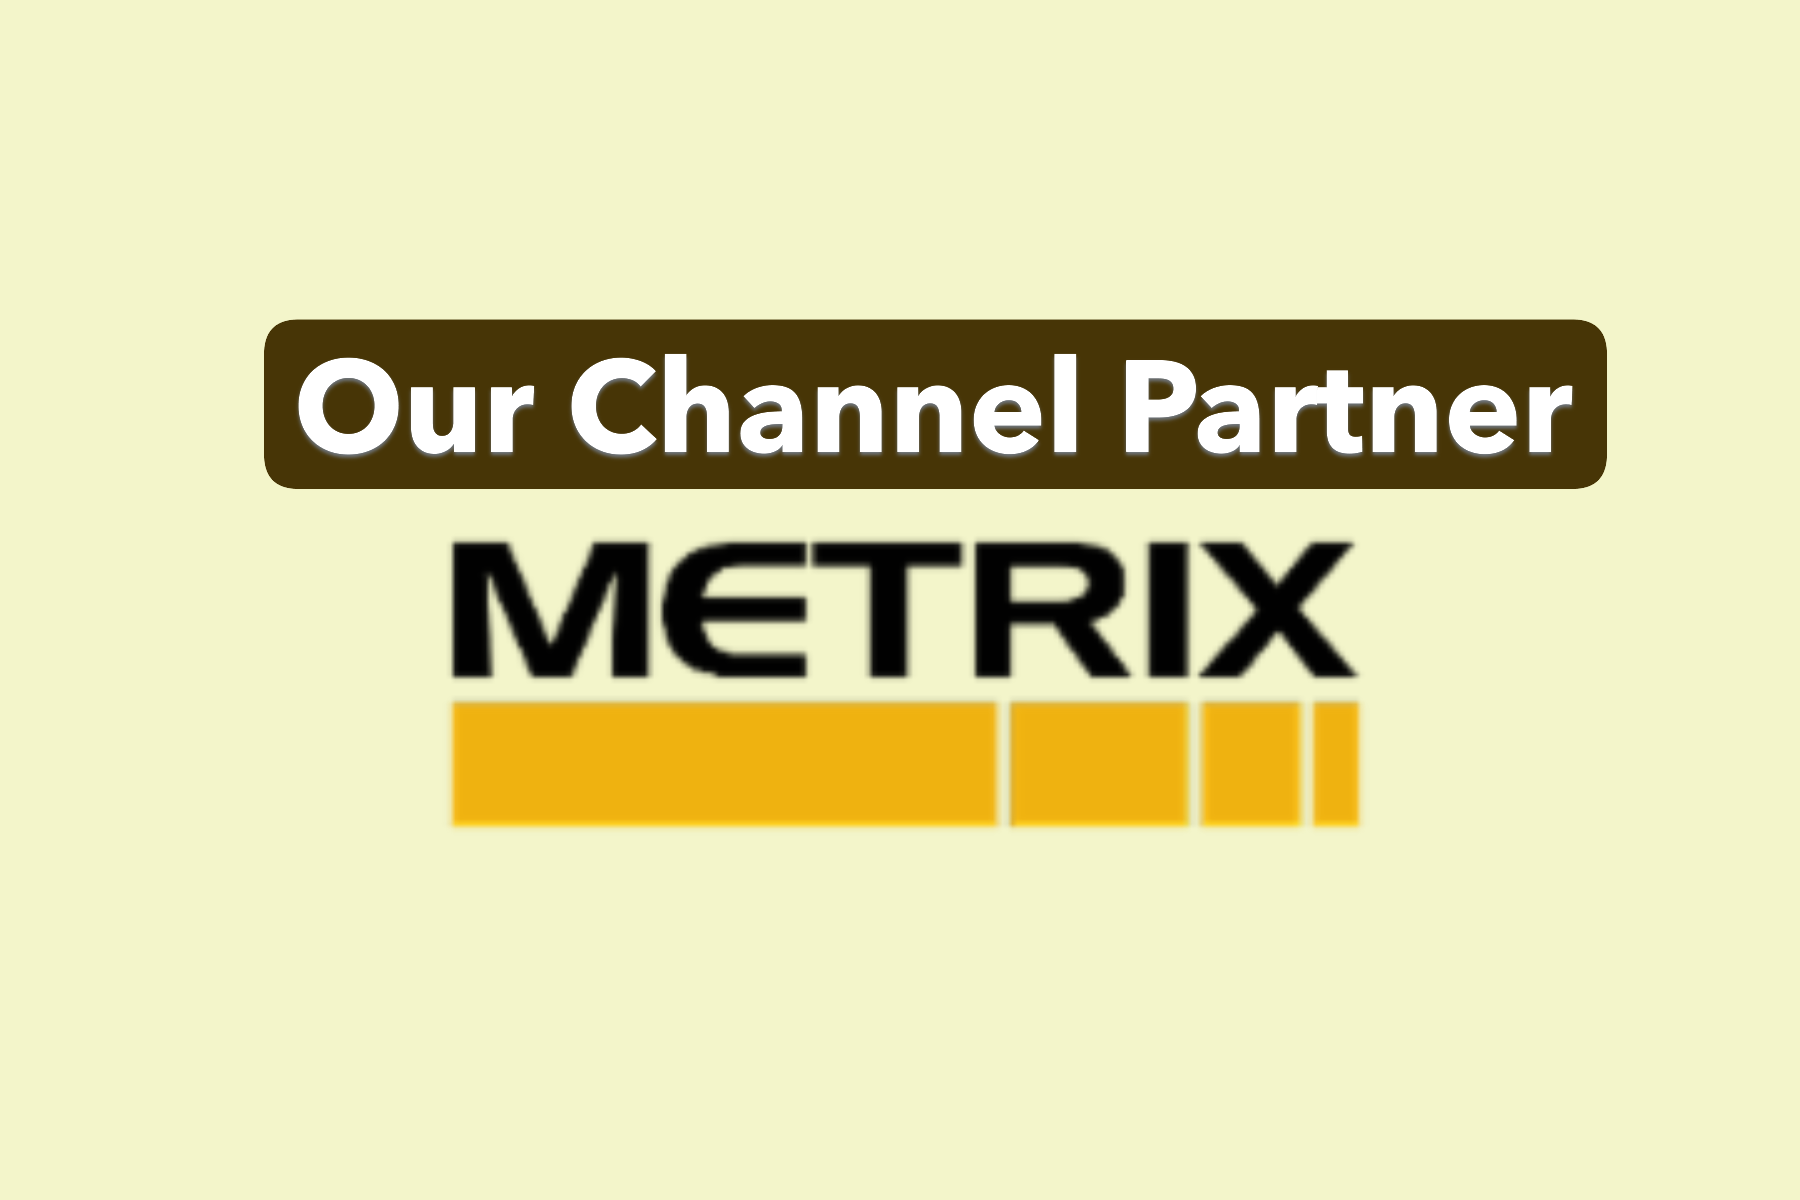
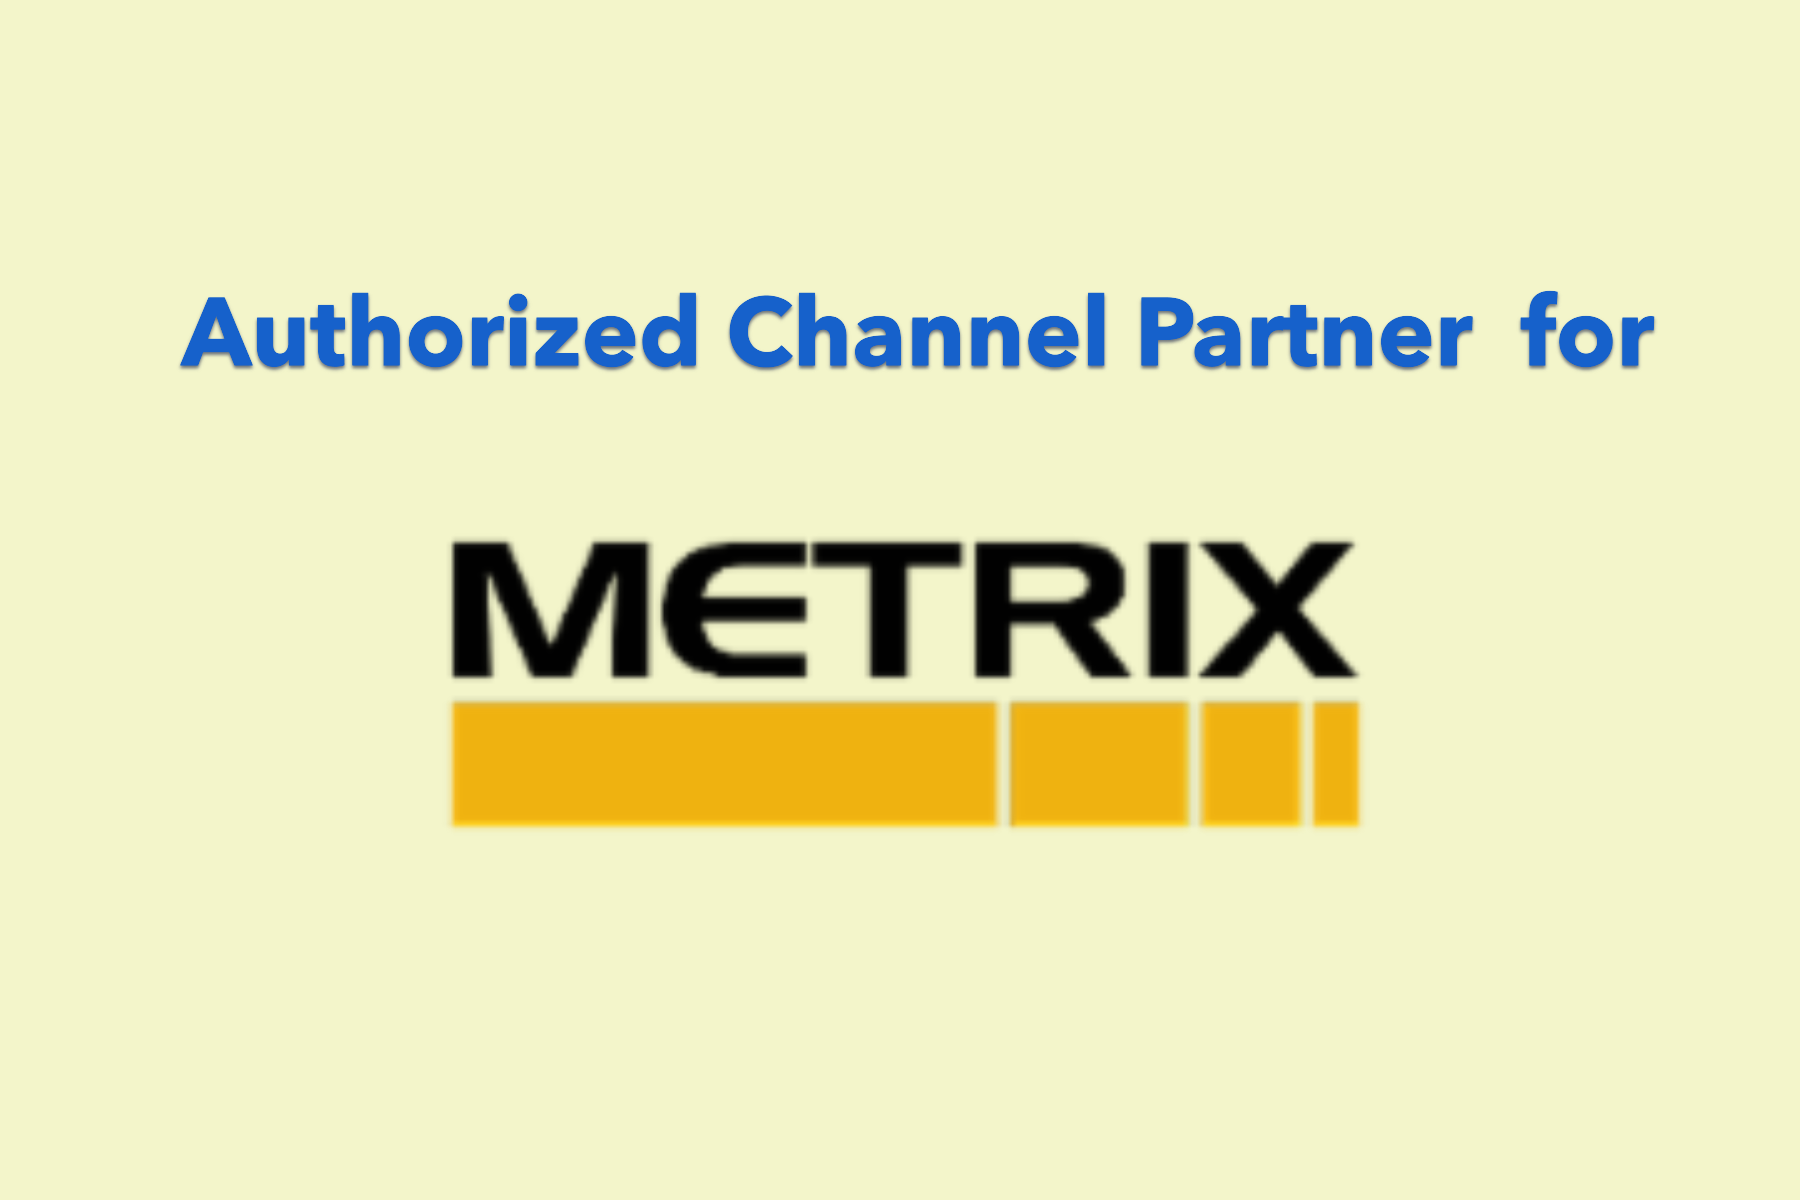
UI changes and Corrections

Changed region(s): [[0.0933, 0.2467, 0.9333, 0.4317]]

diff --git a/frontend/src/pages/home/components/hero.tsx b/frontend/src/pages/home/components/hero.tsx
@@ -1,4 +1,5 @@
 // components/HeroSection.tsx
+import { Link } from "react-router";
 import { Button } from "../../../components/ui/button";
 
 export default function HeroSection() {
@@ -20,22 +21,26 @@ export default function HeroSection() {
       </svg>
 
       <section className="text-center px-4 md:px-6 max-w-5xl mx-auto pt-12">
-        <h1 className="font-bold leading-[40px] md:leading-[70px] text-4xl md:text-6xl lg:text-6xl text-iso-gray-dark tracking-[-1.4px]">
-          Elevate Your Monitoring with <br />{" "}
+        <h1 className="font-bold leading-[40px] md:leading-[70px] text-3xl md:text-6xl lg:text-6xl text-iso-gray-dark tracking-[-1.4px]">
+          Elevate Your Machine Monitoring with <br />{" "}
           <span className="bg-gradient-to-r from-[#7A76FC] to-[#61A4EB] text-transparent bg-clip-text">
             G Vibrations Busters
           </span>
         </h1>
         <p className="text-iso-gray text-lg md:text-xl mt-4 w-4/5 mx-auto">
-          Partnering with Metrix Vibration, leaders in industrial vibration and
-          condition monitoring systems, we offer unmatched expertise in
-          condition monitoring. Get in touch to find the perfect monitoring
-          solution for your equipment.
+          A leading company in the field of machine monitoring and protection
+          systems. We are an authorized channel partner for Metrix Vibrations
+          Intruments USA. We offer unmatched expertise in the field of condition
+          monitoring (Vibration Sensors, Tranmitters, Meters, Monitoring Systems
+          and Mechanical Vibration Switches). Get in touch for proven, reliable
+          and quality products with right solutions.
         </p>
         <div className="flex justify-center pt-7 mt-4">
-          <Button className="w-fit md:w-40 lg:w-48 font-bold text-md cursor-pointer">
-            About Us
-          </Button>
+          <Link to="/about">
+            <Button className="w-fit md:w-40 lg:w-48 font-bold text-md cursor-pointer">
+              About Us
+            </Button>
+          </Link>
         </div>
         <div className="mt-12 mx-auto lg:w-4/5">
           <img

diff --git a/frontend/src/pages/home/components/features.tsx b/frontend/src/pages/home/components/features.tsx
@@ -1,5 +1,7 @@
 // components/Content.tsx
 
+import { Link } from "react-router";
+
 export default function FeaturesSection() {
   const ourFeatures = [
     {
@@ -98,21 +100,30 @@ export default function FeaturesSection() {
         </div>
 
         <div className="grid grid-cols-2 gap-5">
-          <img
-            className="object-cover w-full h-56 col-span-2 rounded shadow-lg"
-            src="/metrix.png"
-            alt="Instrument monitoring"
-          />
-          <img
-            className="object-cover w-full h-48 rounded shadow-lg"
-            src="/factory.jpg"
-            alt="Technician at work"
-          />
-          <img
-            className="object-cover w-full h-48 rounded shadow-lg"
-            src="/warehouse.jpg"
-            alt="Control panel"
-          />
+          <Link
+            to={"https://www.metrixvibration.com/"}
+            className="object-cover w-full h-56 col-span-2 rounded shadow-lg cursor-pointer"
+          >
+            <img
+              className="object-cover w-full h-56 col-span-2 rounded shadow-lg cursor-pointer"
+              src="/metrix.png"
+              alt="Instrument monitoring"
+            />
+          </Link>
+          <div>
+            <img
+              className="object-cover w-full h-48 rounded shadow-lg"
+              src="/factory.jpg"
+              alt="Technician at work"
+            />
+          </div>
+          <div>
+            <img
+              className="object-cover w-full h-48 rounded shadow-lg"
+              src="/warehouse.jpg"
+              alt="Control panel"
+            />
+          </div>
         </div>
       </div>
     </div>

diff --git a/frontend/src/pages/about/components/about.tsx b/frontend/src/pages/about/components/about.tsx
@@ -13,18 +13,17 @@ export default function About() {
               </p>
             </div>
             <h2 className="max-w-lg mb-6 font-sans text-3xl font-bold tracking-tight text-gray-900 sm:text-4xl sm:leading-none">
-              Undertaking Sales and Repair of{" "}
+              Undertaking Sales and Services of{" "}
               <span className="bg-gradient-to-r from-[#7A76FC] to-[#61A4EB] text-transparent bg-clip-text inline-block">
                 Industrial Instruments
               </span>
             </h2>
             <p className="text-base text-gray-700 md:text-lg">
-              G Vibrations Busters Pvt. Ltd. is a private company incorporated
-              on 10th December 2003 . We are dealing in sales and services of
-              Industrial Instruments, especially in the field of Machine
-              Monitoring, Vibration Monitoring. Our core specialization is in
-              the field of Condition Monitoring. We study the application of
-              equipment and suggest the right kind of monitoring technology
+              G Vibrations Busters Pvt. Ltd. is incorporated on 10th December
+              2003 . We are dealing in sales and services of Industrial
+              Instruments, specially in the field of Machine Condition
+              Monitoring and Protection Systems. We study the application of
+              equipment and suggest the right monitoring technology
             </p>
           </div>
           <div className="flex flex-col items-center md:flex-row gap-4">
